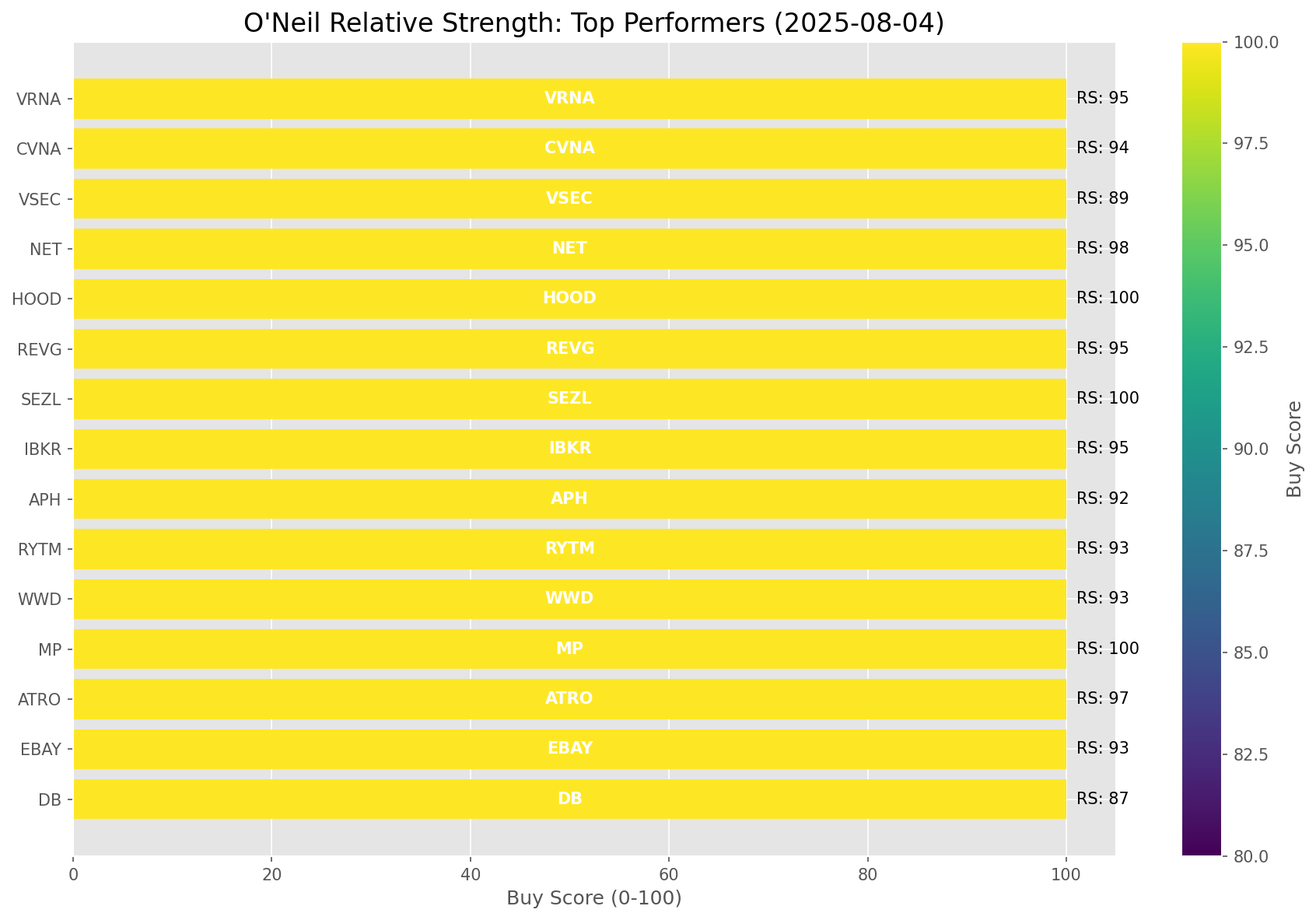
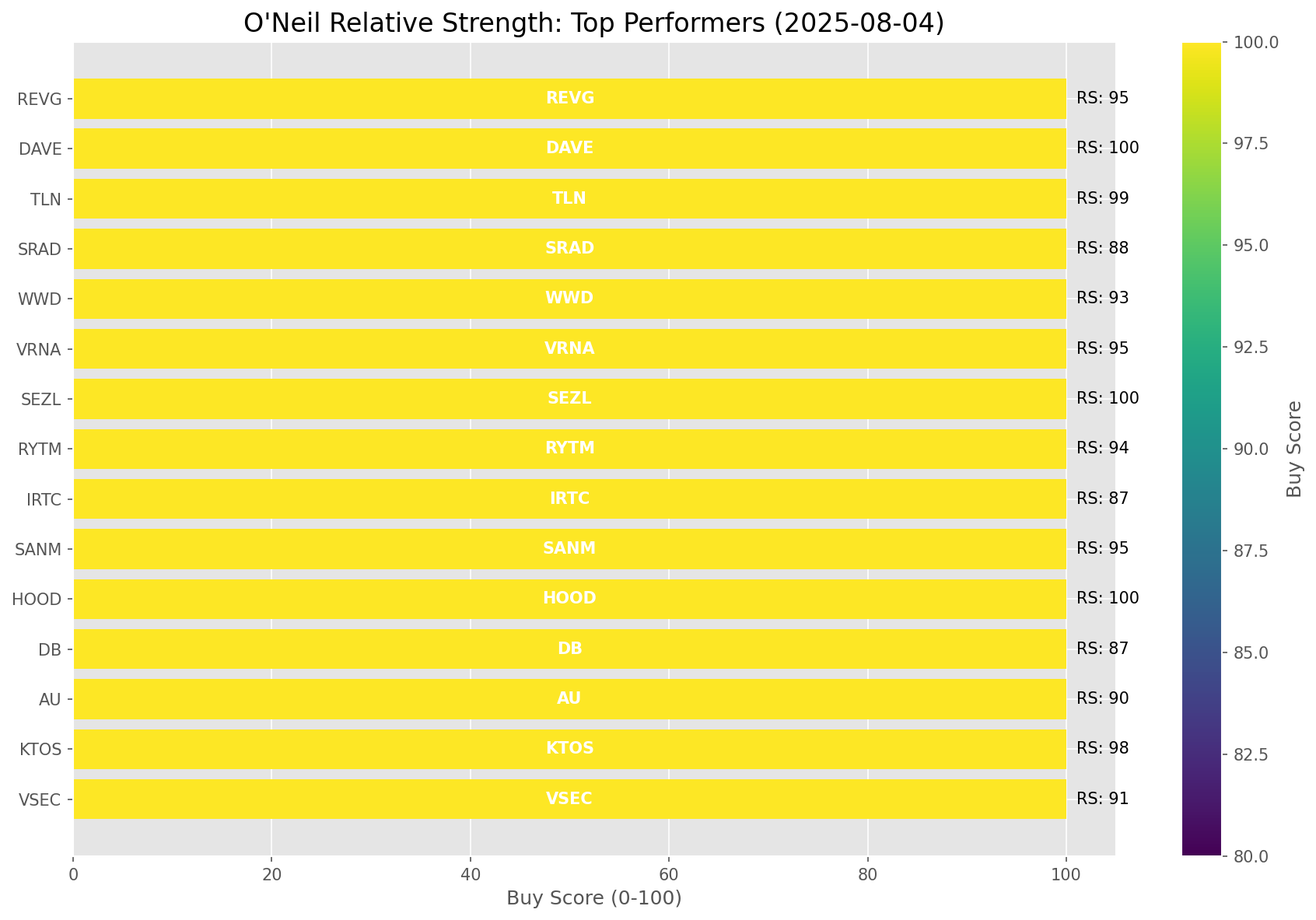
Add market report for 2025-08-04

diff --git a/oneil_relative_strength_report_2025-08-04.md b/oneil_relative_strength_report_2025-08-04.md
@@ -9,11 +9,11 @@
 | Metric | Value |
 |--------|-------|
 | **Market Valuation** | **Fair Valued** |
-| **Current Ratio** | 10.20 |
+| **Current Ratio** | 10.22 |
 | **Historical Mean** | 9.57 |
 | **Standard Deviation** | 0.57 |
 | **Z-Score (StdDev from Mean)** | 0.90 |
-| **Total Market Cap** | $309.41 trillion |
+| **Total Market Cap** | $309.89 trillion |
 | **GDP** | $30.33 trillion |
 
 ## **Market Insights**
@@ -49,41 +49,41 @@ Based on William O'Neil's Relative Strength Methodology
 
 | ETF | Strength | RS Rating | Performance | Above Key MAs | Trend | Sector |
 |-----|----------|-----------|-------------|--------------|-------|--------|
-| [URA](https://www.tradingview.com/chart/?symbol=URA) | 88.6 | 97.0 | 50.93% | 10d ✗, 50d ✓, 200d ✓ | ↗ | Uranium |
-| [ARKW](https://www.tradingview.com/chart/?symbol=ARKW) | 88.1 | 96.0 | 46.23% | 10d ✗, 50d ✓, 200d ✓ | ↗ | Next Generation Internet |
-| [ARKF](https://www.tradingview.com/chart/?symbol=ARKF) | 87.6 | 95.0 | 42.34% | 10d ✗, 50d ✓, 200d ✓ | ↗ | Fintech Innovation |
-| [ARKK](https://www.tradingview.com/chart/?symbol=ARKK) | 87.1 | 94.0 | 39.73% | 10d ✗, 50d ✓, 200d ✓ | ↗ | Innovation |
-| [BLOK](https://www.tradingview.com/chart/?symbol=BLOK) | 86.6 | 93.0 | 35.56% | 10d ✗, 50d ✓, 200d ✓ | ↗ | Blockchain & Cryptocurrency |
-| [XLC](https://www.tradingview.com/chart/?symbol=XLC) | 83.0 | 66.0 | 10.41% | 10d ✓, 50d ✓, 200d ✓ | ↗ | Communications |
-| [XLU](https://www.tradingview.com/chart/?symbol=XLU) | 81.5 | 63.0 | 9.04% | 10d ✓, 50d ✓, 200d ✓ | ↗ | Utilities |
-| [XLK](https://www.tradingview.com/chart/?symbol=XLK) | 81.1 | 82.0 | 20.62% | 10d ✗, 50d ✓, 200d ✓ | ↗ | Technology |
-| [SLV](https://www.tradingview.com/chart/?symbol=SLV) | 78.6 | 77.0 | 16.33% | 10d ✗, 50d ✓, 200d ✓ | ↗ | Silver |
-| [AIQ](https://www.tradingview.com/chart/?symbol=AIQ) | 77.6 | 75.0 | 15.57% | 10d ✗, 50d ✓, 200d ✓ | ↗ | Artificial Intelligence & Technology |
-| [PAVE](https://www.tradingview.com/chart/?symbol=PAVE) | 77.1 | 74.0 | 14.62% | 10d ✗, 50d ✓, 200d ✓ | ↗ | Infrastructure |
-| [XLI](https://www.tradingview.com/chart/?symbol=XLI) | 75.1 | 70.0 | 12.28% | 10d ✗, 50d ✓, 200d ✓ | ↗ | Industrial |
-| [JETS](https://www.tradingview.com/chart/?symbol=JETS) | 75.1 | 70.0 | 12.31% | 10d ✗, 50d ✓, 200d ✓ | ↗ | Airlines |
-| [GLD](https://www.tradingview.com/chart/?symbol=GLD) | 74.0 | 48.0 | 4.26% | 10d ✓, 50d ✓, 200d ✓ | ↗ | Gold |
-| [IYZ](https://www.tradingview.com/chart/?symbol=IYZ) | 72.1 | 64.0 | 9.85% | 10d ✗, 50d ✓, 200d ✓ | ↗ | Telecommunications |
-| [XLY](https://www.tradingview.com/chart/?symbol=XLY) | 70.1 | 60.0 | 8.01% | 10d ✗, 50d ✓, 200d ✓ | ↗ | Consumer Discretionary |
-| [KWEB](https://www.tradingview.com/chart/?symbol=KWEB) | 64.6 | 49.0 | 4.52% | 10d ✗, 50d ✓, 200d ✓ | ↗ | Chinese Internet |
-| [SOXX](https://www.tradingview.com/chart/?symbol=SOXX) | 64.1 | 88.0 | 25.97% | 10d ✗, 50d ✓, 200d ✓ | ↘ | Semiconductors |
-| [XLF](https://www.tradingview.com/chart/?symbol=XLF) | 64.1 | 48.0 | 4.13% | 10d ✗, 50d ✓, 200d ✓ | ↗ | Financial |
-| [CIBR](https://www.tradingview.com/chart/?symbol=CIBR) | 58.7 | 57.0 | 7.07% | 10d ✗, 50d ✗, 200d ✓ | ↗ | Cybersecurity |
-| [ICLN](https://www.tradingview.com/chart/?symbol=ICLN) | 57.1 | 74.0 | 14.61% | 10d ✗, 50d ✓, 200d ✓ | ↘ | Clean Energy |
-| [ITB](https://www.tradingview.com/chart/?symbol=ITB) | 49.8 | 60.0 | 8.18% | 10d ✓, 50d ✓, 200d ✗ | ↘ | Home Construction |
-| [IBB](https://www.tradingview.com/chart/?symbol=IBB) | 46.6 | 53.0 | 5.88% | 10d ✗, 50d ✓, 200d ✓ | ↘ | Biotechnology |
-| [IYR](https://www.tradingview.com/chart/?symbol=IYR) | 38.1 | 36.0 | 0.85% | 10d ✗, 50d ✓, 200d ✓ | ↘ | Real Estate |
-| [DBC](https://www.tradingview.com/chart/?symbol=DBC) | 37.7 | 55.0 | 6.29% | 10d ✗, 50d ✗, 200d ✓ | ↘ | Commodities |
+| [XLK](https://www.tradingview.com/chart/?symbol=XLK) | 91.5 | 83.0 | 20.89% | 10d ✓, 50d ✓, 200d ✓ | ↗ | Technology |
+| [URA](https://www.tradingview.com/chart/?symbol=URA) | 88.6 | 97.0 | 51.30% | 10d ✗, 50d ✓, 200d ✓ | ↗ | Uranium |
+| [ARKW](https://www.tradingview.com/chart/?symbol=ARKW) | 88.1 | 96.0 | 46.72% | 10d ✗, 50d ✓, 200d ✓ | ↗ | Next Generation Internet |
+| [ARKF](https://www.tradingview.com/chart/?symbol=ARKF) | 87.6 | 95.0 | 42.61% | 10d ✗, 50d ✓, 200d ✓ | ↗ | Fintech Innovation |
+| [ARKK](https://www.tradingview.com/chart/?symbol=ARKK) | 87.1 | 94.0 | 40.48% | 10d ✗, 50d ✓, 200d ✓ | ↗ | Innovation |
+| [BLOK](https://www.tradingview.com/chart/?symbol=BLOK) | 86.6 | 93.0 | 36.01% | 10d ✗, 50d ✓, 200d ✓ | ↗ | Blockchain & Cryptocurrency |
+| [XLC](https://www.tradingview.com/chart/?symbol=XLC) | 83.0 | 66.0 | 10.64% | 10d ✓, 50d ✓, 200d ✓ | ↗ | Communications |
+| [XLU](https://www.tradingview.com/chart/?symbol=XLU) | 82.0 | 64.0 | 9.30% | 10d ✓, 50d ✓, 200d ✓ | ↗ | Utilities |
+| [SLV](https://www.tradingview.com/chart/?symbol=SLV) | 78.6 | 77.0 | 16.52% | 10d ✗, 50d ✓, 200d ✓ | ↗ | Silver |
+| [AIQ](https://www.tradingview.com/chart/?symbol=AIQ) | 78.1 | 76.0 | 15.80% | 10d ✗, 50d ✓, 200d ✓ | ↗ | Artificial Intelligence & Technology |
+| [PAVE](https://www.tradingview.com/chart/?symbol=PAVE) | 77.1 | 74.0 | 14.44% | 10d ✗, 50d ✓, 200d ✓ | ↗ | Infrastructure |
+| [XLI](https://www.tradingview.com/chart/?symbol=XLI) | 75.1 | 70.0 | 12.15% | 10d ✗, 50d ✓, 200d ✓ | ↗ | Industrial |
+| [GLD](https://www.tradingview.com/chart/?symbol=GLD) | 74.5 | 49.0 | 4.37% | 10d ✓, 50d ✓, 200d ✓ | ↗ | Gold |
+| [IYZ](https://www.tradingview.com/chart/?symbol=IYZ) | 72.6 | 65.0 | 9.96% | 10d ✗, 50d ✓, 200d ✓ | ↗ | Telecommunications |
+| [XLY](https://www.tradingview.com/chart/?symbol=XLY) | 70.6 | 61.0 | 8.32% | 10d ✗, 50d ✓, 200d ✓ | ↗ | Consumer Discretionary |
+| [JETS](https://www.tradingview.com/chart/?symbol=JETS) | 65.2 | 70.0 | 12.14% | 10d ✗, 50d ✗, 200d ✓ | ↗ | Airlines |
+| [KWEB](https://www.tradingview.com/chart/?symbol=KWEB) | 65.1 | 50.0 | 4.66% | 10d ✗, 50d ✓, 200d ✓ | ↗ | Chinese Internet |
+| [SOXX](https://www.tradingview.com/chart/?symbol=SOXX) | 64.1 | 88.0 | 26.59% | 10d ✗, 50d ✓, 200d ✓ | ↘ | Semiconductors |
+| [CIBR](https://www.tradingview.com/chart/?symbol=CIBR) | 59.7 | 59.0 | 7.48% | 10d ✗, 50d ✗, 200d ✓ | ↗ | Cybersecurity |
+| [IBB](https://www.tradingview.com/chart/?symbol=IBB) | 57.5 | 55.0 | 6.15% | 10d ✓, 50d ✓, 200d ✓ | ↘ | Biotechnology |
+| [ICLN](https://www.tradingview.com/chart/?symbol=ICLN) | 56.6 | 73.0 | 14.36% | 10d ✗, 50d ✓, 200d ✓ | ↘ | Clean Energy |
+| [XLF](https://www.tradingview.com/chart/?symbol=XLF) | 53.7 | 47.0 | 3.84% | 10d ✗, 50d ✗, 200d ✓ | ↗ | Financial |
+| [ITB](https://www.tradingview.com/chart/?symbol=ITB) | 50.3 | 61.0 | 8.44% | 10d ✓, 50d ✓, 200d ✗ | ↘ | Home Construction |
+| [IYR](https://www.tradingview.com/chart/?symbol=IYR) | 38.1 | 36.0 | 0.95% | 10d ✗, 50d ✓, 200d ✓ | ↘ | Real Estate |
+| [DBC](https://www.tradingview.com/chart/?symbol=DBC) | 37.7 | 55.0 | 6.31% | 10d ✗, 50d ✗, 200d ✓ | ↘ | Commodities |
+| [TLT](https://www.tradingview.com/chart/?symbol=TLT) | 36.3 | 33.0 | 0.43% | 10d ✓, 50d ✓, 200d ✗ | ↘ | Long-term Treasuries |
 | [UUP](https://www.tradingview.com/chart/?symbol=UUP) | 35.3 | 31.0 | 0.07% | 10d ✓, 50d ✓, 200d ✗ | ↘ | U.S. Dollar |
-| [TLT](https://www.tradingview.com/chart/?symbol=TLT) | 35.3 | 31.0 | 0.17% | 10d ✓, 50d ✓, 200d ✗ | ↘ | Long-term Treasuries |
-| [XLE](https://www.tradingview.com/chart/?symbol=XLE) | 34.9 | 50.0 | 4.77% | 10d ✗, 50d ✓, 200d ✗ | ↘ | Energy |
-| [DBA](https://www.tradingview.com/chart/?symbol=DBA) | 30.0 | 20.0 | -4.86% | 10d ✗, 50d ✗, 200d ✗ | ↗ | Agriculture |
-| [IYT](https://www.tradingview.com/chart/?symbol=IYT) | 29.0 | 58.0 | 7.48% | 10d ✗, 50d ✗, 200d ✗ | ↘ | Transportation |
-| [ARKG](https://www.tradingview.com/chart/?symbol=ARKG) | 24.5 | 49.0 | 4.41% | 10d ✗, 50d ✗, 200d ✗ | ↘ | Genomics |
-| [XLB](https://www.tradingview.com/chart/?symbol=XLB) | 23.0 | 46.0 | 3.47% | 10d ✗, 50d ✗, 200d ✗ | ↘ | Materials |
-| [BIL](https://www.tradingview.com/chart/?symbol=BIL) | 15.0 | 30.0 | 0.02% | 10d ✗, 50d ✗, 200d ✗ | ↘ | Short-term Treasuries |
-| [XLP](https://www.tradingview.com/chart/?symbol=XLP) | 13.5 | 27.0 | -1.24% | 10d ✗, 50d ✗, 200d ✗ | ↘ | Consumer Staples |
-| [XLV](https://www.tradingview.com/chart/?symbol=XLV) | 10.0 | 20.0 | -4.38% | 10d ✗, 50d ✗, 200d ✗ | ↘ | Healthcare |
+| [DBA](https://www.tradingview.com/chart/?symbol=DBA) | 29.5 | 19.0 | -4.86% | 10d ✗, 50d ✗, 200d ✗ | ↗ | Agriculture |
+| [IYT](https://www.tradingview.com/chart/?symbol=IYT) | 29.0 | 58.0 | 7.37% | 10d ✗, 50d ✗, 200d ✗ | ↘ | Transportation |
+| [ARKG](https://www.tradingview.com/chart/?symbol=ARKG) | 26.5 | 53.0 | 5.51% | 10d ✗, 50d ✗, 200d ✗ | ↘ | Genomics |
+| [XLE](https://www.tradingview.com/chart/?symbol=XLE) | 24.0 | 48.0 | 4.23% | 10d ✗, 50d ✗, 200d ✗ | ↘ | Energy |
+| [XLB](https://www.tradingview.com/chart/?symbol=XLB) | 23.0 | 46.0 | 3.34% | 10d ✗, 50d ✗, 200d ✗ | ↘ | Materials |
+| [BIL](https://www.tradingview.com/chart/?symbol=BIL) | 15.5 | 31.0 | 0.02% | 10d ✗, 50d ✗, 200d ✗ | ↘ | Short-term Treasuries |
+| [XLP](https://www.tradingview.com/chart/?symbol=XLP) | 13.5 | 27.0 | -1.25% | 10d ✗, 50d ✗, 200d ✗ | ↘ | Consumer Staples |
+| [XLV](https://www.tradingview.com/chart/?symbol=XLV) | 10.0 | 20.0 | -4.43% | 10d ✗, 50d ✗, 200d ✗ | ↘ | Healthcare |
 
 ### **Sector ETF Performance Interpretation**
 
@@ -98,152 +98,151 @@ This table shows the relative strength metrics for different market sectors base
 
 ### **Current Sector Leadership**
 
-The current market leadership is coming from the following sectors: **Uranium, Next Generation Internet, Fintech Innovation**.
+The current market leadership is coming from the following sectors: **Technology, Uranium, Next Generation Internet**.
 
-The **Uranium** sector (represented by **URA**) is showing particularly strong relative strength with an RS rating of 97.0 and performance of 50.93% vs. the S&P 500. This sector is trading above its 50-day, 200-day moving average(s). Investors should consider focusing on high RS stocks within these leading sectors for potential outperformance.
+The **Technology** sector (represented by **XLK**) is showing particularly strong relative strength with an RS rating of 83.0 and performance of 20.89% vs. the S&P 500. This sector is trading above its 10-day, 50-day, 200-day moving average(s). Investors should consider focusing on high RS stocks within these leading sectors for potential outperformance.
 
 ---
 
 ## **Buy Recommendations**
 
-The following 56 stocks show exceptional relative strength:
+The following 57 stocks show exceptional relative strength:
 
 | RS Rating | Buy Score | Current Price | Chart | Name | Ticker |
 |-----------|-----------|---------------|-------|------|--------|
-| 100 | 100 | $64.96 | [Chart](https://www.tradingview.com/chart/?symbol=MP) | MP Materials Corp. | MP |
-| 100 | 100 | $152.63 | [Chart](https://www.tradingview.com/chart/?symbol=SEZL) | Sezzle Inc. Common Stock | SEZL |
-| 100 | 100 | $104.20 | [Chart](https://www.tradingview.com/chart/?symbol=HOOD) | Robinhood Markets, Inc. Class A Common Stock | HOOD |
-| 100 | 100 | $240.99 | [Chart](https://www.tradingview.com/chart/?symbol=DAVE) | Dave Inc. Class A Common Stock | DAVE |
-| 100 | 100 | $200.75 | [Chart](https://www.tradingview.com/chart/?symbol=CLS) | Celestica, Inc. | CLS |
-| 99 | 100 | $385.35 | [Chart](https://www.tradingview.com/chart/?symbol=TLN) | Talen Energy Corporation Common Stock | TLN |
-| 99 | 100 | $76.41 | [Chart](https://www.tradingview.com/chart/?symbol=LIF) | Life360, Inc. Common Stock | LIF |
-| 99 | 100 | $129.41 | [Chart](https://www.tradingview.com/chart/?symbol=RBLX) | Roblox Corporation | RBLX |
-| 98 | 100 | $206.27 | [Chart](https://www.tradingview.com/chart/?symbol=NET) | Cloudflare, Inc. Class A common stock, par value $0.001 per share | NET |
-| 98 | 100 | $59.41 | [Chart](https://www.tradingview.com/chart/?symbol=KTOS) | Kratos Defense & Security Solutions, Inc. | KTOS |
-| 98 | 100 | $664.15 | [Chart](https://www.tradingview.com/chart/?symbol=GEV) | GE Vernova Inc. | GEV |
-| 98 | 100 | $64.65 | [Chart](https://www.tradingview.com/chart/?symbol=HIMS) | Hims & Hers Health, Inc. | HIMS |
-| 98 | 100 | $24.36 | [Chart](https://www.tradingview.com/chart/?symbol=CPS) | Cooper-Standard Automotive Inc. | CPS |
-| 97 | 100 | $36.02 | [Chart](https://www.tradingview.com/chart/?symbol=ATRO) | Astronics Corp | ATRO |
-| 96 | 100 | $171.01 | [Chart](https://www.tradingview.com/chart/?symbol=NRG) | NRG Energy, Inc. | NRG |
-| 96 | 100 | $175.60 | [Chart](https://www.tradingview.com/chart/?symbol=COOP) | Mr. Cooper Group Inc. Common Stock | COOP |
-| 95 | 100 | $64.68 | [Chart](https://www.tradingview.com/chart/?symbol=IBKR) | Interactive Brokers Group, Inc. Class A Common Stock | IBKR |
-| 95 | 100 | $48.37 | [Chart](https://www.tradingview.com/chart/?symbol=REVG) | REV Group, Inc. | REVG |
+| 100 | 100 | $104.44 | [Chart](https://www.tradingview.com/chart/?symbol=HOOD) | Robinhood Markets, Inc. Class A Common Stock | HOOD |
+| 100 | 100 | $153.78 | [Chart](https://www.tradingview.com/chart/?symbol=SEZL) | Sezzle Inc. Common Stock | SEZL |
+| 100 | 100 | $242.65 | [Chart](https://www.tradingview.com/chart/?symbol=DAVE) | Dave Inc. Class A Common Stock | DAVE |
+| 100 | 100 | $65.65 | [Chart](https://www.tradingview.com/chart/?symbol=MP) | MP Materials Corp. | MP |
+| 100 | 100 | $199.85 | [Chart](https://www.tradingview.com/chart/?symbol=CLS) | Celestica, Inc. | CLS |
+| 99 | 100 | $390.37 | [Chart](https://www.tradingview.com/chart/?symbol=TLN) | Talen Energy Corporation Common Stock | TLN |
+| 99 | 100 | $76.76 | [Chart](https://www.tradingview.com/chart/?symbol=LIF) | Life360, Inc. Common Stock | LIF |
+| 99 | 100 | $129.59 | [Chart](https://www.tradingview.com/chart/?symbol=RBLX) | Roblox Corporation | RBLX |
+| 98 | 100 | $59.70 | [Chart](https://www.tradingview.com/chart/?symbol=KTOS) | Kratos Defense & Security Solutions, Inc. | KTOS |
+| 98 | 100 | $65.15 | [Chart](https://www.tradingview.com/chart/?symbol=HIMS) | Hims & Hers Health, Inc. | HIMS |
+| 98 | 100 | $660.88 | [Chart](https://www.tradingview.com/chart/?symbol=GEV) | GE Vernova Inc. | GEV |
+| 98 | 100 | $209.40 | [Chart](https://www.tradingview.com/chart/?symbol=NET) | Cloudflare, Inc. Class A common stock, par value $0.001 per share | NET |
+| 97 | 100 | $35.99 | [Chart](https://www.tradingview.com/chart/?symbol=ATRO) | Astronics Corp | ATRO |
+| 96 | 100 | $172.35 | [Chart](https://www.tradingview.com/chart/?symbol=NRG) | NRG Energy, Inc. | NRG |
+| 96 | 100 | $177.27 | [Chart](https://www.tradingview.com/chart/?symbol=COOP) | Mr. Cooper Group Inc. Common Stock | COOP |
+| 95 | 100 | $115.01 | [Chart](https://www.tradingview.com/chart/?symbol=SANM) | Sanmina  Corp | SANM |
 | 95 | 100 | $105.24 | [Chart](https://www.tradingview.com/chart/?symbol=VRNA) | Verona Pharma plc | VRNA |
-| 95 | 100 | $115.07 | [Chart](https://www.tradingview.com/chart/?symbol=SANM) | Sanmina  Corp | SANM |
-| 94 | 100 | $358.50 | [Chart](https://www.tradingview.com/chart/?symbol=CVNA) | Carvana Co. | CVNA |
-| 94 | 100 | $58.41 | [Chart](https://www.tradingview.com/chart/?symbol=VIK) | Viking Holdings Ltd | VIK |
-| 93 | 100 | $92.81 | [Chart](https://www.tradingview.com/chart/?symbol=EBAY) | eBay Inc | EBAY |
+| 95 | 100 | $48.37 | [Chart](https://www.tradingview.com/chart/?symbol=REVG) | REV Group, Inc. | REVG |
+| 95 | 100 | $64.64 | [Chart](https://www.tradingview.com/chart/?symbol=IBKR) | Interactive Brokers Group, Inc. Class A Common Stock | IBKR |
+| 95 | 100 | $365.05 | [Chart](https://www.tradingview.com/chart/?symbol=CVNA) | Carvana Co. | CVNA |
+| 94 | 100 | $88.76 | [Chart](https://www.tradingview.com/chart/?symbol=RYTM) | Rhythm Pharmaceuticals, Inc. Common Stock | RYTM |
+| 94 | 100 | $58.51 | [Chart](https://www.tradingview.com/chart/?symbol=VIK) | Viking Holdings Ltd | VIK |
 | 93 | 100 | $259.29 | [Chart](https://www.tradingview.com/chart/?symbol=WWD) | Woodward, Inc. | WWD |
-| 93 | 100 | $88.02 | [Chart](https://www.tradingview.com/chart/?symbol=RYTM) | Rhythm Pharmaceuticals, Inc. Common Stock | RYTM |
-| 93 | 100 | $42.76 | [Chart](https://www.tradingview.com/chart/?symbol=LTM) | LATAM Airlines Group S.A. American Depositary Shares (each representing two thousand (2,000) shares of Common Stock) | LTM |
+| 93 | 100 | $48.83 | [Chart](https://www.tradingview.com/chart/?symbol=TOST) | Toast, Inc. | TOST |
+| 93 | 100 | $93.09 | [Chart](https://www.tradingview.com/chart/?symbol=EBAY) | eBay Inc | EBAY |
+| 92 | 100 | $275.25 | [Chart](https://www.tradingview.com/chart/?symbol=GE) | GE Aerospace | GE |
+| 92 | 100 | $43.10 | [Chart](https://www.tradingview.com/chart/?symbol=LTM) | LATAM Airlines Group S.A. American Depositary Shares (each representing two thousand (2,000) shares of Common Stock) | LTM |
 | 92 | 100 | $107.83 | [Chart](https://www.tradingview.com/chart/?symbol=APH) | Amphenol Corporation | APH |
-| 92 | 100 | $48.47 | [Chart](https://www.tradingview.com/chart/?symbol=TOST) | Toast, Inc. | TOST |
-| 91 | 100 | $274.11 | [Chart](https://www.tradingview.com/chart/?symbol=GE) | GE Aerospace | GE |
-| 90 | 100 | $52.21 | [Chart](https://www.tradingview.com/chart/?symbol=AU) | AngloGold Ashanti plc | AU |
-| 90 | 100 | $55.67 | [Chart](https://www.tradingview.com/chart/?symbol=BTI) | British American Tobacco p.l.c. American Depositary Shares, American Depositary Shares, each representing one Ordinary Share | BTI |
-| 90 | 100 | $80.96 | [Chart](https://www.tradingview.com/chart/?symbol=TPB) | Turning Point Brands, Inc. | TPB |
-| 89 | 100 | $146.27 | [Chart](https://www.tradingview.com/chart/?symbol=VSEC) | VSE Corp | VSEC |
-| 89 | 100 | $158.68 | [Chart](https://www.tradingview.com/chart/?symbol=PLTR) | Palantir Technologies Inc. Class A Common Stock | PLTR |
-| 87 | 100 | $33.52 | [Chart](https://www.tradingview.com/chart/?symbol=DB) | Deutsche Bank Aktiengesellschaft | DB |
-| 87 | 100 | $164.94 | [Chart](https://www.tradingview.com/chart/?symbol=IRTC) | iRhythm Technologies, Inc | IRTC |
-| 87 | 100 | $29.73 | [Chart](https://www.tradingview.com/chart/?symbol=SRAD) | Sportradar Group AG Class A Ordinary Shares | SRAD |
+| 91 | 100 | $154.65 | [Chart](https://www.tradingview.com/chart/?symbol=VSEC) | VSE Corp | VSEC |
+| 91 | 100 | $80.96 | [Chart](https://www.tradingview.com/chart/?symbol=TPB) | Turning Point Brands, Inc. | TPB |
+| 90 | 100 | $52.27 | [Chart](https://www.tradingview.com/chart/?symbol=AU) | AngloGold Ashanti plc | AU |
+| 89 | 100 | $159.50 | [Chart](https://www.tradingview.com/chart/?symbol=PLTR) | Palantir Technologies Inc. Class A Common Stock | PLTR |
+| 89 | 100 | $55.52 | [Chart](https://www.tradingview.com/chart/?symbol=BTI) | British American Tobacco p.l.c. American Depositary Shares, American Depositary Shares, each representing one Ordinary Share | BTI |
+| 88 | 100 | $29.91 | [Chart](https://www.tradingview.com/chart/?symbol=SRAD) | Sportradar Group AG Class A Ordinary Shares | SRAD |
+| 87 | 100 | $33.61 | [Chart](https://www.tradingview.com/chart/?symbol=DB) | Deutsche Bank Aktiengesellschaft | DB |
+| 87 | 100 | $164.88 | [Chart](https://www.tradingview.com/chart/?symbol=IRTC) | iRhythm Technologies, Inc | IRTC |
+| 87 | 100 | $91.83 | [Chart](https://www.tradingview.com/chart/?symbol=RBRK) | Rubrik, Inc. | RBRK |
 | 89 | 99 | $188.52 | [Chart](https://www.tradingview.com/chart/?symbol=AWI) | Armstrong World Industries, Inc. | AWI |
-| 86 | 99 | $91.00 | [Chart](https://www.tradingview.com/chart/?symbol=RBRK) | Rubrik, Inc. | RBRK |
-| 85 | 98 | $57.68 | [Chart](https://www.tradingview.com/chart/?symbol=ERJ) | Embraer S.A. | ERJ |
-| 85 | 98 | $253.18 | [Chart](https://www.tradingview.com/chart/?symbol=DASH) | DoorDash, Inc. Class A Common Stock | DASH |
-| 87 | 97 | $35.35 | [Chart](https://www.tradingview.com/chart/?symbol=APG) | APi Group Corporation | APG |
+| 88 | 99 | $35.51 | [Chart](https://www.tradingview.com/chart/?symbol=APG) | APi Group Corporation | APG |
+| 86 | 99 | $255.29 | [Chart](https://www.tradingview.com/chart/?symbol=DASH) | DoorDash, Inc. Class A Common Stock | DASH |
+| 88 | 98 | $389.71 | [Chart](https://www.tradingview.com/chart/?symbol=APP) | Applovin Corporation Class A Common Stock | APP |
+| 86 | 98 | $28.63 | [Chart](https://www.tradingview.com/chart/?symbol=OR) | OR Royalties Inc. | OR |
+| 85 | 98 | $57.83 | [Chart](https://www.tradingview.com/chart/?symbol=ERJ) | Embraer S.A. | ERJ |
 | 87 | 97 | $259.02 | [Chart](https://www.tradingview.com/chart/?symbol=WTS) | Watts Water Technologies, Inc. Class A | WTS |
-| 85 | 97 | $28.56 | [Chart](https://www.tradingview.com/chart/?symbol=OR) | OR Royalties Inc. | OR |
-| 85 | 97 | $47.57 | [Chart](https://www.tradingview.com/chart/?symbol=BBIO) | BridgeBio Pharma, Inc. Common Stock | BBIO |
-| 85 | 97 | $101.10 | [Chart](https://www.tradingview.com/chart/?symbol=BK) | Bank of New York Mellon Corporation | BK |
-| 86 | 96 | $383.98 | [Chart](https://www.tradingview.com/chart/?symbol=APP) | Applovin Corporation Class A Common Stock | APP |
-| 85 | 96 | $84.14 | [Chart](https://www.tradingview.com/chart/?symbol=USFD) | US Foods Holding Corp. | USFD |
-| 83 | 96 | $39.59 | [Chart](https://www.tradingview.com/chart/?symbol=AHR) | American Healthcare REIT, Inc. | AHR |
-| 85 | 95 | $96.72 | [Chart](https://www.tradingview.com/chart/?symbol=NDAQ) | Nasdaq, Inc. Common Stock | NDAQ |
-| 84 | 95 | $197.68 | [Chart](https://www.tradingview.com/chart/?symbol=ITA) | iShares U.S. Aerospace & Defense ETF | ITA |
-| 84 | 95 | $72.94 | [Chart](https://www.tradingview.com/chart/?symbol=ULS) | UL Solutions Inc. | ULS |
-| 84 | 94 | $50.88 | [Chart](https://www.tradingview.com/chart/?symbol=FHI) | Federated Hermes, Inc. | FHI |
+| 85 | 97 | $47.73 | [Chart](https://www.tradingview.com/chart/?symbol=BBIO) | BridgeBio Pharma, Inc. Common Stock | BBIO |
+| 85 | 97 | $100.88 | [Chart](https://www.tradingview.com/chart/?symbol=BK) | Bank of New York Mellon Corporation | BK |
+| 85 | 96 | $83.80 | [Chart](https://www.tradingview.com/chart/?symbol=USFD) | US Foods Holding Corp. | USFD |
+| 84 | 96 | $42.69 | [Chart](https://www.tradingview.com/chart/?symbol=FROG) | JFrog Ltd. Ordinary Shares | FROG |
+| 83 | 96 | $39.57 | [Chart](https://www.tradingview.com/chart/?symbol=AHR) | American Healthcare REIT, Inc. | AHR |
+| 85 | 95 | $96.46 | [Chart](https://www.tradingview.com/chart/?symbol=NDAQ) | Nasdaq, Inc. Common Stock | NDAQ |
+| 84 | 95 | $197.76 | [Chart](https://www.tradingview.com/chart/?symbol=ITA) | iShares U.S. Aerospace & Defense ETF | ITA |
+| 84 | 94 | $51.05 | [Chart](https://www.tradingview.com/chart/?symbol=FHI) | Federated Hermes, Inc. | FHI |
+| 82 | 93 | $72.21 | [Chart](https://www.tradingview.com/chart/?symbol=ULS) | UL Solutions Inc. | ULS |
+| 81 | 93 | $320.00 | [Chart](https://www.tradingview.com/chart/?symbol=FFIV) | F5, Inc. Common Stock | FFIV |
 | 82 | 92 | $111.71 | [Chart](https://www.tradingview.com/chart/?symbol=SXT) | Sensient Technology Corporation | SXT |
 | 81 | 92 | $236.50 | [Chart](https://www.tradingview.com/chart/?symbol=BAP) | Credicorp LTD | BAP |
-| 80 | 92 | $319.65 | [Chart](https://www.tradingview.com/chart/?symbol=FFIV) | F5, Inc. Common Stock | FFIV |
+| 80 | 92 | $95.50 | [Chart](https://www.tradingview.com/chart/?symbol=WPM) | Wheaton Precious Metals Corp. Common Stock | WPM |
 
 ---
 
 
 ## **Sell Recommendations**
 
-The following 68 stocks show deteriorating relative strength:
+The following 66 stocks show deteriorating relative strength:
 
 | RS Rating | Sell Score | Current Price | Chart | Name | Ticker |
 |-----------|------------|---------------|-------|------|--------|
-| 1 | 100 | $12.08 | [Chart](https://www.tradingview.com/chart/?symbol=NVDS) | Investment Managers Series Trust II Tradr 1.5X Short NVDA Daily ETF | NVDS |
-| 1 | 100 | $70.75 | [Chart](https://www.tradingview.com/chart/?symbol=LNTH) | Lantheus Holdings, Inc | LNTH |
-| 1 | 100 | $17.00 | [Chart](https://www.tradingview.com/chart/?symbol=DJT) | Trump Media & Technology Group Corp. Common Stock | DJT |
-| 2 | 100 | $13.79 | [Chart](https://www.tradingview.com/chart/?symbol=CLBT) | Cellebrite DI Ltd. Class A Ordinary Shares | CLBT |
-| 2 | 100 | $22.18 | [Chart](https://www.tradingview.com/chart/?symbol=DUST) | Direxion Daily Gold Miners Index Bear 2X Shares | DUST |
-| 3 | 100 | $24.11 | [Chart](https://www.tradingview.com/chart/?symbol=ZSL) | ProShares UltraShort Silver | ZSL |
-| 4 | 100 | $22.28 | [Chart](https://www.tradingview.com/chart/?symbol=HELE) | Helen Of Troy Ltd | HELE |
-| 4 | 100 | $14.85 | [Chart](https://www.tradingview.com/chart/?symbol=CSTL) | Castle Biosciences, Inc. Common Stock | CSTL |
-| 5 | 100 | $41.76 | [Chart](https://www.tradingview.com/chart/?symbol=SDOW) | ProShares UltraPro Short Dow 30 | SDOW |
+| 1 | 100 | $11.94 | [Chart](https://www.tradingview.com/chart/?symbol=NVDS) | Investment Managers Series Trust II Tradr 1.5X Short NVDA Daily ETF | NVDS |
+| 1 | 100 | $70.50 | [Chart](https://www.tradingview.com/chart/?symbol=LNTH) | Lantheus Holdings, Inc | LNTH |
+| 1 | 100 | $16.93 | [Chart](https://www.tradingview.com/chart/?symbol=DJT) | Trump Media & Technology Group Corp. Common Stock | DJT |
+| 2 | 100 | $22.04 | [Chart](https://www.tradingview.com/chart/?symbol=DUST) | Direxion Daily Gold Miners Index Bear 2X Shares | DUST |
+| 2 | 100 | $13.76 | [Chart](https://www.tradingview.com/chart/?symbol=CLBT) | Cellebrite DI Ltd. Class A Ordinary Shares | CLBT |
+| 3 | 100 | $23.99 | [Chart](https://www.tradingview.com/chart/?symbol=ZSL) | ProShares UltraShort Silver | ZSL |
+| 4 | 100 | $22.21 | [Chart](https://www.tradingview.com/chart/?symbol=HELE) | Helen Of Troy Ltd | HELE |
+| 4 | 100 | $14.99 | [Chart](https://www.tradingview.com/chart/?symbol=CSTL) | Castle Biosciences, Inc. Common Stock | CSTL |
 | 6 | 100 | $20.39 | [Chart](https://www.tradingview.com/chart/?symbol=KIDS) | OrthoPediatrics Corp. Common Stock | KIDS |
-| 7 | 100 | $10.37 | [Chart](https://www.tradingview.com/chart/?symbol=OEC) | Orion S.A. | OEC |
+| 7 | 100 | $10.42 | [Chart](https://www.tradingview.com/chart/?symbol=CLB) | Core Laboratories Inc. | CLB |
+| 7 | 100 | $12.72 | [Chart](https://www.tradingview.com/chart/?symbol=CDNA) | CareDx, Inc. | CDNA |
 | 7 | 100 | $20.57 | [Chart](https://www.tradingview.com/chart/?symbol=AMRK) | A-Mark Precious Metals, Inc. | AMRK |
-| 7 | 100 | $12.64 | [Chart](https://www.tradingview.com/chart/?symbol=CDNA) | CareDx, Inc. | CDNA |
-| 10 | 100 | $55.29 | [Chart](https://www.tradingview.com/chart/?symbol=HRB) | H&R Block, Inc. | HRB |
+| 7 | 100 | $10.37 | [Chart](https://www.tradingview.com/chart/?symbol=OEC) | Orion S.A. | OEC |
+| 8 | 100 | $21.14 | [Chart](https://www.tradingview.com/chart/?symbol=AMPH) | Amphastar Pharmaceuticals, Inc. | AMPH |
+| 10 | 100 | $55.17 | [Chart](https://www.tradingview.com/chart/?symbol=HRB) | H&R Block, Inc. | HRB |
 | 12 | 100 | $52.44 | [Chart](https://www.tradingview.com/chart/?symbol=AMWD) | American Woodmark Corp | AMWD |
 | 13 | 100 | $15.19 | [Chart](https://www.tradingview.com/chart/?symbol=FIHL) | Fidelis Insurance Holdings Limited | FIHL |
+| 6 | 99 | $41.84 | [Chart](https://www.tradingview.com/chart/?symbol=SDOW) | ProShares UltraPro Short Dow 30 | SDOW |
 | 6 | 99 | $14.75 | [Chart](https://www.tradingview.com/chart/?symbol=PLSE) | Pulse Biosciences, Inc Common Stock (DE) | PLSE |
-| 7 | 99 | $19.39 | [Chart](https://www.tradingview.com/chart/?symbol=GAP) | The Gap, Inc. | GAP |
-| 8 | 99 | $18.10 | [Chart](https://www.tradingview.com/chart/?symbol=AMN) | AMN Healthcare Services | AMN |
-| 9 | 99 | $12.61 | [Chart](https://www.tradingview.com/chart/?symbol=BSM) | Black Stone Minerals, L.P. | BSM |
-| 9 | 99 | $22.25 | [Chart](https://www.tradingview.com/chart/?symbol=ERY) | Direxion Daily Energy Bear 2X Shares | ERY |
-| 10 | 98 | $35.41 | [Chart](https://www.tradingview.com/chart/?symbol=LZB) | La-Z-Boy Incorporated | LZB |
-| 9 | 97 | $48.78 | [Chart](https://www.tradingview.com/chart/?symbol=PRCT) | PROCEPT BioRobotics Corporation Common Stock | PRCT |
-| 11 | 97 | $21.21 | [Chart](https://www.tradingview.com/chart/?symbol=AMPH) | Amphastar Pharmaceuticals, Inc. | AMPH |
+| 7 | 98 | $19.39 | [Chart](https://www.tradingview.com/chart/?symbol=GAP) | The Gap, Inc. | GAP |
+| 9 | 98 | $12.56 | [Chart](https://www.tradingview.com/chart/?symbol=BSM) | Black Stone Minerals, L.P. | BSM |
+| 10 | 98 | $22.49 | [Chart](https://www.tradingview.com/chart/?symbol=ERY) | Direxion Daily Energy Bear 2X Shares | ERY |
+| 11 | 97 | $35.41 | [Chart](https://www.tradingview.com/chart/?symbol=LZB) | La-Z-Boy Incorporated | LZB |
 | 10 | 96 | $18.66 | [Chart](https://www.tradingview.com/chart/?symbol=AVBP) | ArriVent BioPharma, Inc. Common Stock | AVBP |
-| 13 | 96 | $11.27 | [Chart](https://www.tradingview.com/chart/?symbol=SHC) | Sotera Health Company Common Stock | SHC |
 | 7 | 95 | $20.80 | [Chart](https://www.tradingview.com/chart/?symbol=BLFS) | BioLife Solutions Inc. | BLFS |
+| 10 | 95 | $49.10 | [Chart](https://www.tradingview.com/chart/?symbol=PRCT) | PROCEPT BioRobotics Corporation Common Stock | PRCT |
+| 13 | 95 | $11.26 | [Chart](https://www.tradingview.com/chart/?symbol=SHC) | Sotera Health Company Common Stock | SHC |
 | 16 | 94 | $127.40 | [Chart](https://www.tradingview.com/chart/?symbol=ICUI) | ICU Medical Inc | ICUI |
-| 9 | 93 | $31.89 | [Chart](https://www.tradingview.com/chart/?symbol=GLBE) | Global-E Online Ltd. Ordinary Shares | GLBE |
-| 22 | 93 | $16.75 | [Chart](https://www.tradingview.com/chart/?symbol=SVOL) | Simplify Volatility Premium ETF | SVOL |
+| 9 | 93 | $31.99 | [Chart](https://www.tradingview.com/chart/?symbol=GLBE) | Global-E Online Ltd. Ordinary Shares | GLBE |
 | 13 | 92 | $16.44 | [Chart](https://www.tradingview.com/chart/?symbol=CTO) | CTO Realty Growth, Inc. | CTO |
-| 12 | 91 | $39.23 | [Chart](https://www.tradingview.com/chart/?symbol=SH) | ProShares Short S&P500 | SH |
+| 22 | 92 | $16.75 | [Chart](https://www.tradingview.com/chart/?symbol=SVOL) | Simplify Volatility Premium ETF | SVOL |
+| 12 | 91 | $39.20 | [Chart](https://www.tradingview.com/chart/?symbol=SH) | ProShares Short S&P500 | SH |
 | 15 | 91 | $13.01 | [Chart](https://www.tradingview.com/chart/?symbol=GOOD) | Gladstone Commercial Corporation - REIT | GOOD |
 | 13 | 90 | $10.13 | [Chart](https://www.tradingview.com/chart/?symbol=ACIC) | American Coastal Insurance Corporation Common Stock | ACIC |
 | 14 | 89 | $10.62 | [Chart](https://www.tradingview.com/chart/?symbol=SONO) | Sonos, Inc. Common Stock | SONO |
 | 18 | 88 | $11.80 | [Chart](https://www.tradingview.com/chart/?symbol=WSR) | Whitestone REIT | WSR |
-| 22 | 88 | $37.20 | [Chart](https://www.tradingview.com/chart/?symbol=PBA) | PEMBINA PIPELINE CORPORATION | PBA |
-| 23 | 88 | $10.03 | [Chart](https://www.tradingview.com/chart/?symbol=NMZ) | Nuveen Municipal High Income Opportunity Fund | NMZ |
-| 16 | 87 | $98.22 | [Chart](https://www.tradingview.com/chart/?symbol=AFL) | Aflac Inc. | AFL |
+| 15 | 87 | $97.97 | [Chart](https://www.tradingview.com/chart/?symbol=AFL) | Aflac Inc. | AFL |
 | 18 | 87 | $21.89 | [Chart](https://www.tradingview.com/chart/?symbol=CURB) | Curbline Properties Corp. | CURB |
+| 23 | 87 | $10.04 | [Chart](https://www.tradingview.com/chart/?symbol=NMZ) | Nuveen Municipal High Income Opportunity Fund | NMZ |
 | 21 | 86 | $85.19 | [Chart](https://www.tradingview.com/chart/?symbol=BCO) | The Brink's Company | BCO |
 | 22 | 85 | $13.04 | [Chart](https://www.tradingview.com/chart/?symbol=CCRN) | Cross Country Healthcare Inc | CCRN |
-| 17 | 84 | $42.36 | [Chart](https://www.tradingview.com/chart/?symbol=BILL) | BILL Holdings, Inc. | BILL |
+| 17 | 84 | $42.31 | [Chart](https://www.tradingview.com/chart/?symbol=BILL) | BILL Holdings, Inc. | BILL |
 | 24 | 84 | $12.57 | [Chart](https://www.tradingview.com/chart/?symbol=ZYME) | Zymeworks Inc. | ZYME |
-| 25 | 83 | $11.76 | [Chart](https://www.tradingview.com/chart/?symbol=NVG) | Nuveen AMT-Free Municipal Credit Income Fund | NVG |
-| 28 | 83 | $94.82 | [Chart](https://www.tradingview.com/chart/?symbol=IRM) | Iron Mountain Inc. | IRM |
-| 21 | 82 | $11.97 | [Chart](https://www.tradingview.com/chart/?symbol=NU) | Nu Holdings Ltd. | NU |
-| 30 | 82 | $13.59 | [Chart](https://www.tradingview.com/chart/?symbol=OCSL) | Oaktree Specialty Lending Corporation | OCSL |
-| 23 | 81 | $31.66 | [Chart](https://www.tradingview.com/chart/?symbol=DAR) | DARLING INGREDIENTS INC. | DAR |
+| 33 | 83 | $11.99 | [Chart](https://www.tradingview.com/chart/?symbol=M) | Macy's Inc. | M |
+| 26 | 82 | $11.78 | [Chart](https://www.tradingview.com/chart/?symbol=NVG) | Nuveen AMT-Free Municipal Credit Income Fund | NVG |
+| 28 | 82 | $94.85 | [Chart](https://www.tradingview.com/chart/?symbol=IRM) | Iron Mountain Inc. | IRM |
+| 23 | 81 | $31.58 | [Chart](https://www.tradingview.com/chart/?symbol=DAR) | DARLING INGREDIENTS INC. | DAR |
 | 27 | 81 | $18.65 | [Chart](https://www.tradingview.com/chart/?symbol=KRNT) | Kornit Digital Ltd. | KRNT |
-| 37 | 81 | $15.59 | [Chart](https://www.tradingview.com/chart/?symbol=ZIM) | ZIM Integrated Shipping Services Ltd. | ZIM |
-| 24 | 80 | $44.46 | [Chart](https://www.tradingview.com/chart/?symbol=EPI) | WisdomTree India Earnings Fund ETF | EPI |
-| 24 | 80 | $153.59 | [Chart](https://www.tradingview.com/chart/?symbol=NICE) | NICE Ltd | NICE |
-| 22 | 79 | $86.81 | [Chart](https://www.tradingview.com/chart/?symbol=BIDU) | Baidu, Inc. | BIDU |
-| 28 | 78 | $12.34 | [Chart](https://www.tradingview.com/chart/?symbol=RQI) | COHEN & STEERS QUALITY INCOME REALTY FUND, INC. COMMON SHARES | RQI |
-| 23 | 77 | $10.19 | [Chart](https://www.tradingview.com/chart/?symbol=BRKL) | Brookline Bancorp Inc | BRKL |
+| 30 | 81 | $13.57 | [Chart](https://www.tradingview.com/chart/?symbol=OCSL) | Oaktree Specialty Lending Corporation | OCSL |
+| 22 | 80 | $11.99 | [Chart](https://www.tradingview.com/chart/?symbol=NU) | Nu Holdings Ltd. | NU |
+| 24 | 80 | $153.50 | [Chart](https://www.tradingview.com/chart/?symbol=NICE) | NICE Ltd | NICE |
+| 24 | 79 | $44.53 | [Chart](https://www.tradingview.com/chart/?symbol=EPI) | WisdomTree India Earnings Fund ETF | EPI |
+| 39 | 79 | $15.64 | [Chart](https://www.tradingview.com/chart/?symbol=ZIM) | ZIM Integrated Shipping Services Ltd. | ZIM |
+| 30 | 78 | $78.80 | [Chart](https://www.tradingview.com/chart/?symbol=GPN) | Global Payments, Inc. | GPN |
+| 28 | 77 | $12.38 | [Chart](https://www.tradingview.com/chart/?symbol=RQI) | COHEN & STEERS QUALITY INCOME REALTY FUND, INC. COMMON SHARES | RQI |
 | 24 | 76 | $186.48 | [Chart](https://www.tradingview.com/chart/?symbol=AIZ) | Assurant, Inc. | AIZ |
+| 24 | 76 | $10.19 | [Chart](https://www.tradingview.com/chart/?symbol=BRKL) | Brookline Bancorp Inc | BRKL |
 | 30 | 76 | $23.29 | [Chart](https://www.tradingview.com/chart/?symbol=IBTF) | iShares iBonds Dec 2025 Term Treasury ETF | IBTF |
 | 31 | 76 | $59.91 | [Chart](https://www.tradingview.com/chart/?symbol=FTSM) | First Trust Enhanced Short Maturity ETF | FTSM |
-| 32 | 76 | $79.06 | [Chart](https://www.tradingview.com/chart/?symbol=GPN) | Global Payments, Inc. | GPN |
-| 36 | 74 | $40.40 | [Chart](https://www.tradingview.com/chart/?symbol=APOG) | Apogee Enterprises Inc | APOG |
-| 28 | 72 | $34.30 | [Chart](https://www.tradingview.com/chart/?symbol=FFIN) | First Financial Bankshares Inc | FFIN |
-| 30 | 70 | $99.89 | [Chart](https://www.tradingview.com/chart/?symbol=GBIL) | Goldman Sachs Access Treasury 0-1 Year ETF | GBIL |
+| 35 | 75 | $40.40 | [Chart](https://www.tradingview.com/chart/?symbol=APOG) | Apogee Enterprises Inc | APOG |
 | 30 | 70 | $22.86 | [Chart](https://www.tradingview.com/chart/?symbol=IBTG) | iShares iBonds Dec 2026 Term Treasury ETF | IBTG |
-| 33 | 69 | $79.10 | [Chart](https://www.tradingview.com/chart/?symbol=FIS) | Fidelity National Information Services, Inc. | FIS |
+| 32 | 70 | $79.04 | [Chart](https://www.tradingview.com/chart/?symbol=FIS) | Fidelity National Information Services, Inc. | FIS |
+| 31 | 69 | $99.88 | [Chart](https://www.tradingview.com/chart/?symbol=GBIL) | Goldman Sachs Access Treasury 0-1 Year ETF | GBIL |
+| 33 | 68 | $30.73 | [Chart](https://www.tradingview.com/chart/?symbol=FLRN) | SPDR Bloomberg Investment Grade Floating Rate ETF | FLRN |
 | 34 | 68 | $54.05 | [Chart](https://www.tradingview.com/chart/?symbol=ALRM) | Alarm.com Holdings, Inc. | ALRM |
-| 33 | 67 | $30.73 | [Chart](https://www.tradingview.com/chart/?symbol=FLRN) | SPDR Bloomberg Investment Grade Floating Rate ETF | FLRN |
-| 38 | 66 | $19.82 | [Chart](https://www.tradingview.com/chart/?symbol=VSCO) | Victorias Secret & Co. | VSCO |
+| 34 | 68 | $45.93 | [Chart](https://www.tradingview.com/chart/?symbol=FTSL) | First Trust Senior Loan Fund ETF | FTSL |
 
 ## **Methodology**
 
